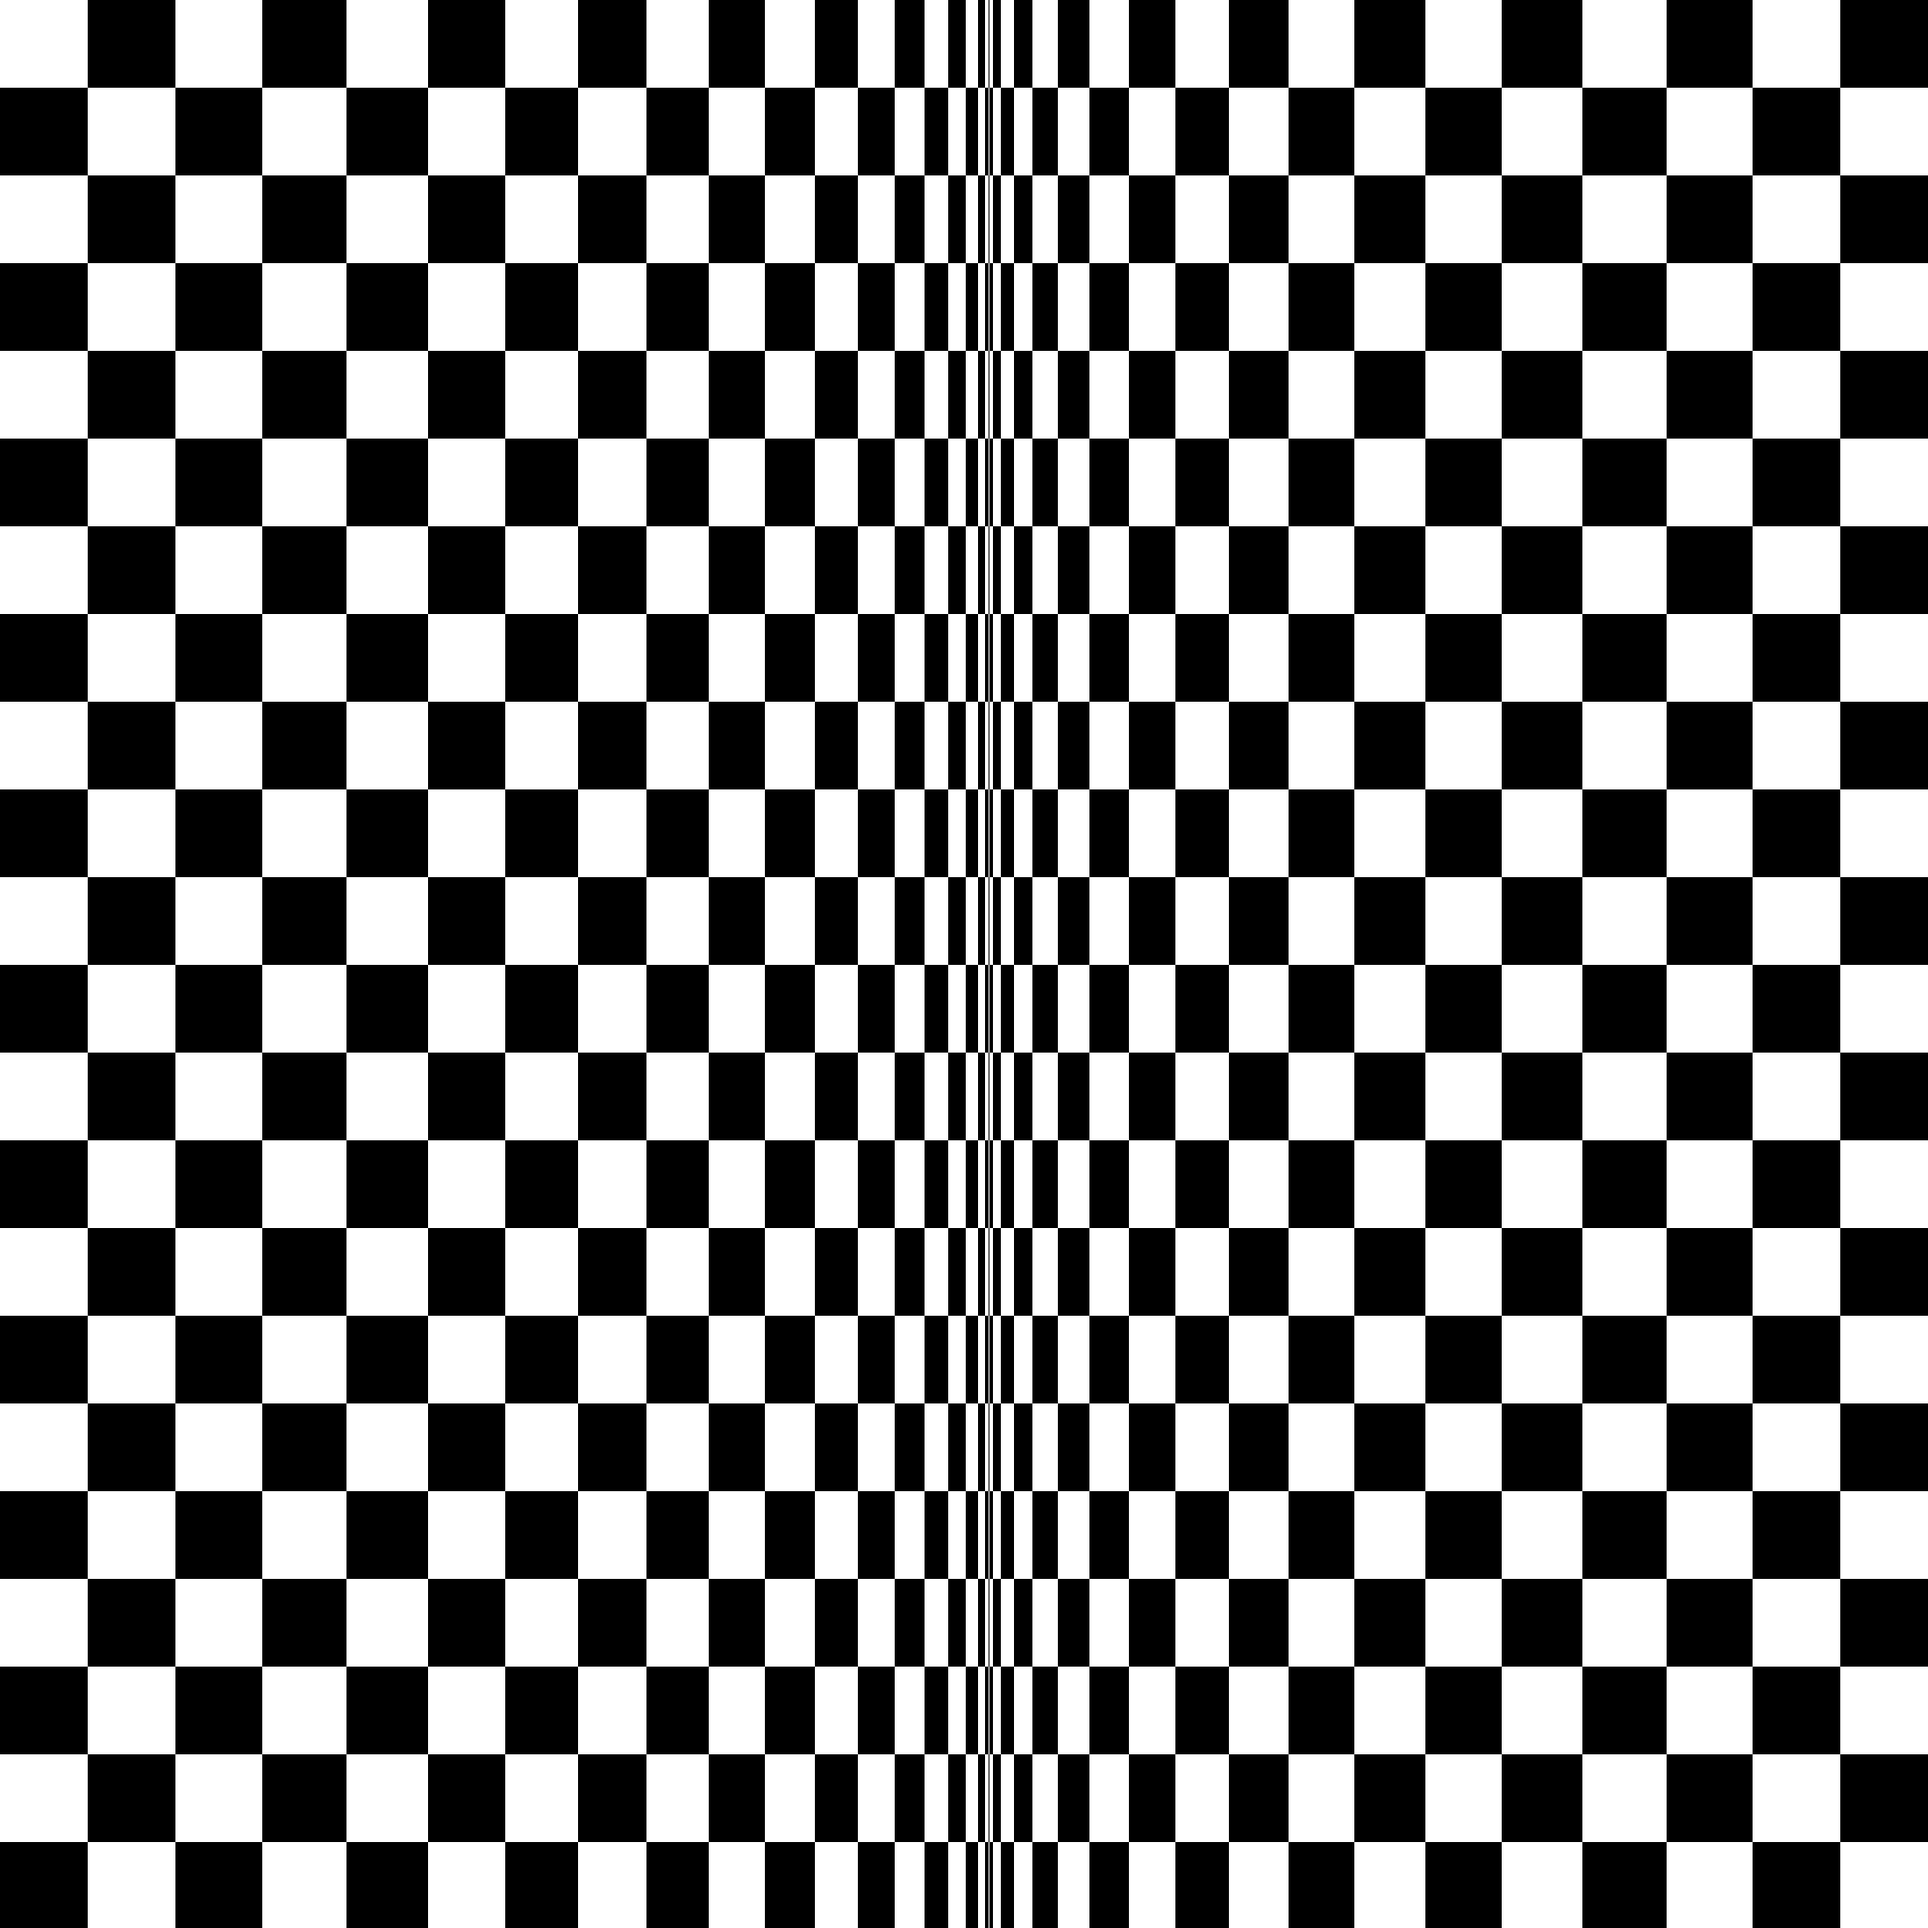
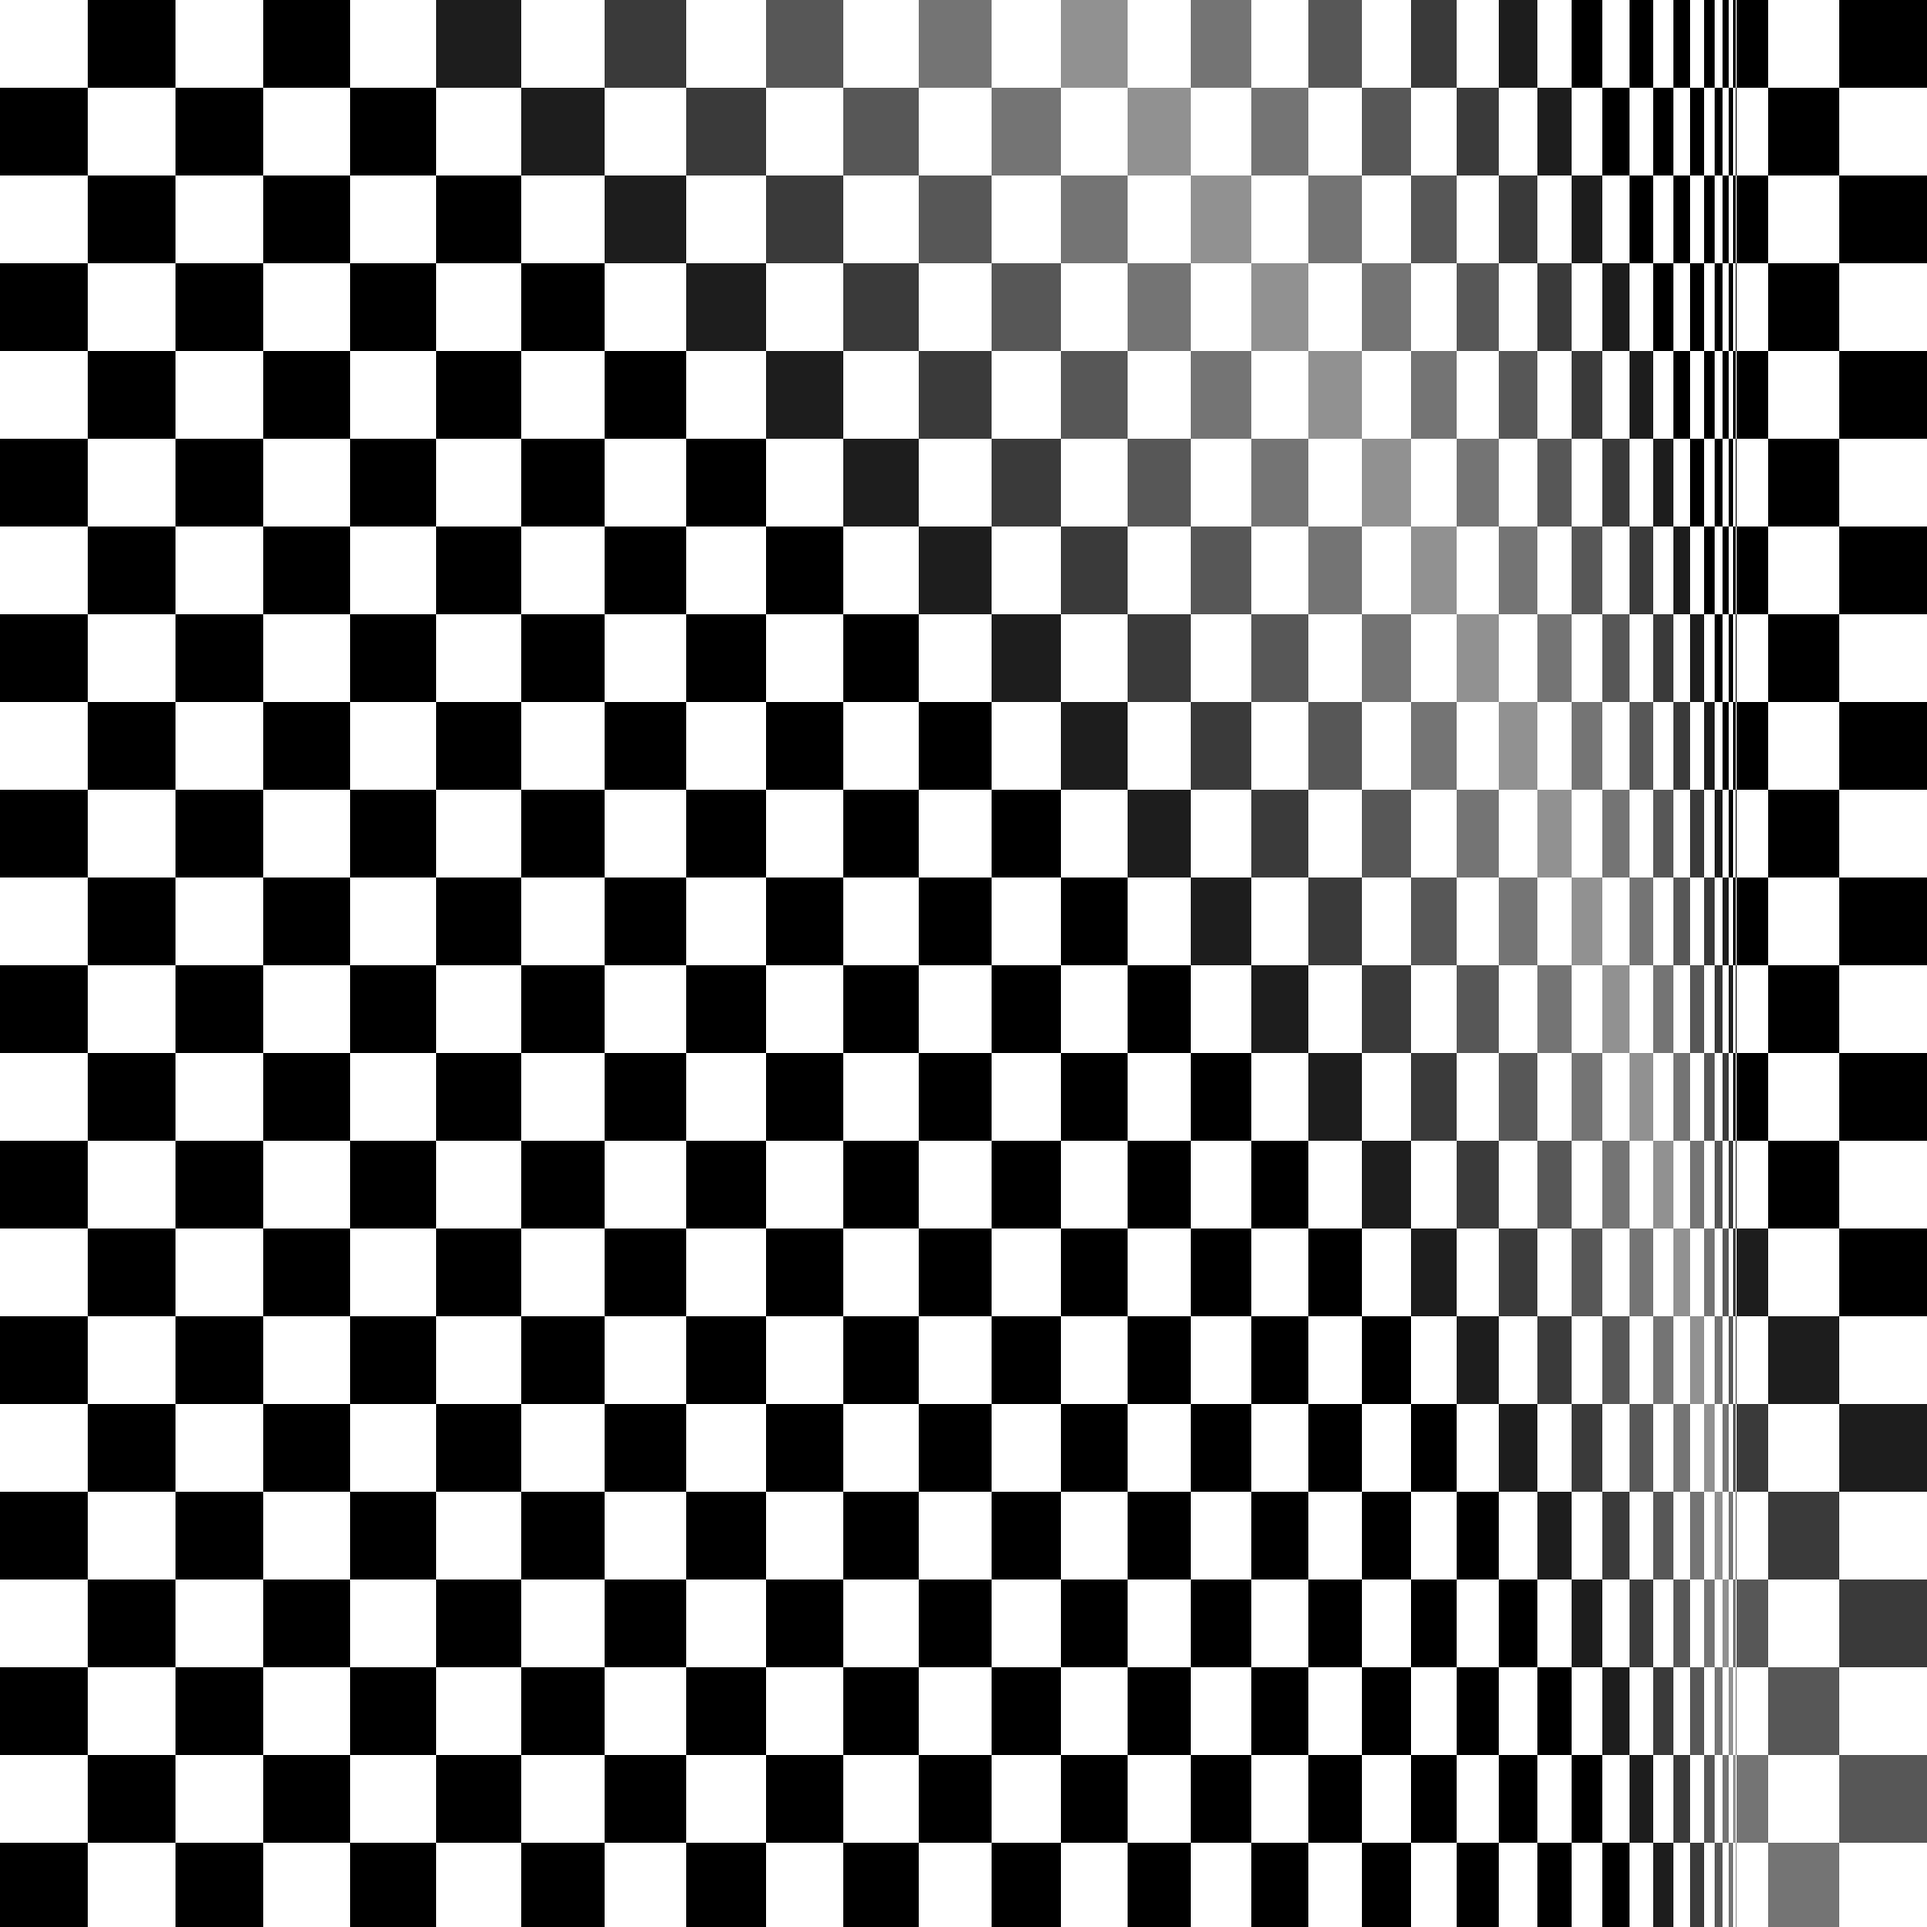
Add animator for gradientpoint

diff --git a/templates/doublequad.html b/templates/doublequad.html
@@ -89,6 +89,8 @@
 						<br>
 						<span>Gradient Point</span>
 						<input type="number" id="gradientPoint" name="gradientPoint_input" min="-100" max="100" step="1" value="{{ initGradientPoint }}" required>
+						<span id="gradientPointStepSpan" {% if isGradientPoint and isAnimator%} style="display: inline;" {% else %} style="display: none;" {% endif %}>Step</span>
+						<input type="number" id="gradientPointStep" name="gradientPointStep_input" min="1" max="10" step="1" value="{{ initGradientPointStep }}" required {% if isGradientPoint and isAnimator%} style="display: inline;" {% else %} style="display: none;" {% endif %}>
 						<br>
 						<span>Gradient Width</span>
 						<input type="number" id="gradientWidth" name="gradientWidth_input" min="0" max="100" step="1" value="{{ initGradientWidth }}" required>
@@ -115,10 +117,13 @@
 						<span>Interval (s)</span>
 						<input type="number" id="interval" name="interval_input" required min="0.01" max="2" step="0.01" value="{{ initInterval }}" required>
 						<br>
+						<br>
 						<span>Changing Variables</span>
 						<br>
 						<input type="checkbox" id="isValley" name="isValley_input" onclick="toggleStep(this)" {% if isValley %} checked {% endif %}>
 						<label for="isValley" class="checkBoxLabel">Valley Point</label>
+						<input type="checkbox" id="isGradientPoint" name="isGradientPoint_input" onclick="toggleStep(this)" {% if isGradientPoint %} checked {% endif %}>
+						<label for="isGradientPoint" class="checkBoxLabel">Gradient Point</label>
 					</div>
 					<br>
 					<input type="submit" value="Generate Image" class="button">
@@ -263,6 +268,10 @@
 					case "isValley_input":
 						stepBox = document.getElementById("valleyStep");
 						stepSpan = document.getElementById("valleyStepSpan");
+						break;
+					case "isGradientPoint_input":
+						stepBox = document.getElementById("gradientPointStep");
+						stepSpan = document.getElementById("gradientPointStepSpan");
 						break;
 					default:
 						stepBox = "undefined";

diff --git a/app.py b/app.py
@@ -3,7 +3,7 @@
 
 import random, math
 # Use CFFI version - cairocffi instead of normal PyCairo library for heroku deployment.
-import cairocffi as cairo
+import cairo
 from scipy.stats import binom
 from flask import Flask, render_template, request
 
@@ -273,6 +273,8 @@ def selectType():
         initInterval = 0.4,
         isValley = True,
         initValleyStep = 1,
+        isGradientPoint = False,
+        initGradientPointStep = 1,
         graph="img/home_img.jpg")
     elif imageType == 'kiss':
         return render_template("kiss.html",
@@ -347,6 +349,8 @@ def output():
         interval = request.form.get('interval_input', type=float)
         isvalley = request.form.get('isValley_input', type=bool)
         valleystep = request.form.get('valleyStep_input', type=int)
+        isgradientpoint = request.form.get('isGradientPoint_input', type=bool)
+        gradientpointstep = request.form.get('gradientPointStep_input', type=int)
     
     # Blaze study
     if image == "blaze":
@@ -745,6 +749,7 @@ def output():
             # Toggle animator feature with steps
             if animateIndex != 0:
                 if isvalley: valley += valleystep
+                if isgradientpoint: gradientpoint += gradientpointstep
 
         elif (image == "blaze"):
             a = 0
@@ -889,6 +894,7 @@ def output():
     
     if image == "doublequad":
         valley = request.form.get('valley_input', type=int)
+        gradientpoint = request.form.get('gradientPoint_input', type=int)
         imgs = request.form.get('imgs_input', type=int)
         if num - valley + 1 < imgs:
             imgs = num - valley + 1
@@ -976,6 +982,8 @@ def output():
         initInterval = interval,
         isValley=isvalley,
         initValleyStep = valleystep,
+        isGradientPoint = isgradientpoint,
+        initGradientPointStep = gradientpointstep,
         graph="out/output."+mode)
     elif imageType == 'kiss':
         return render_template("kiss.html",
